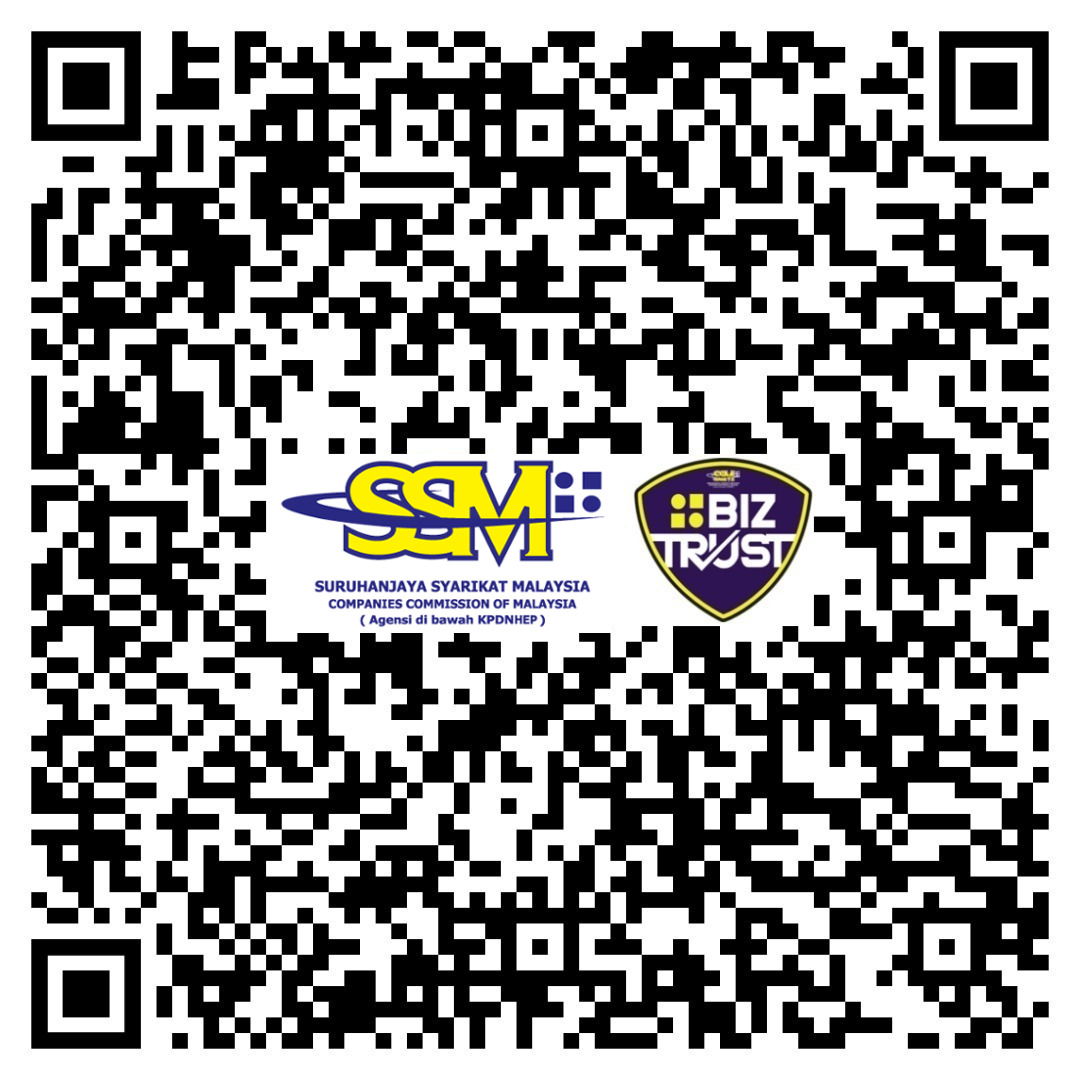
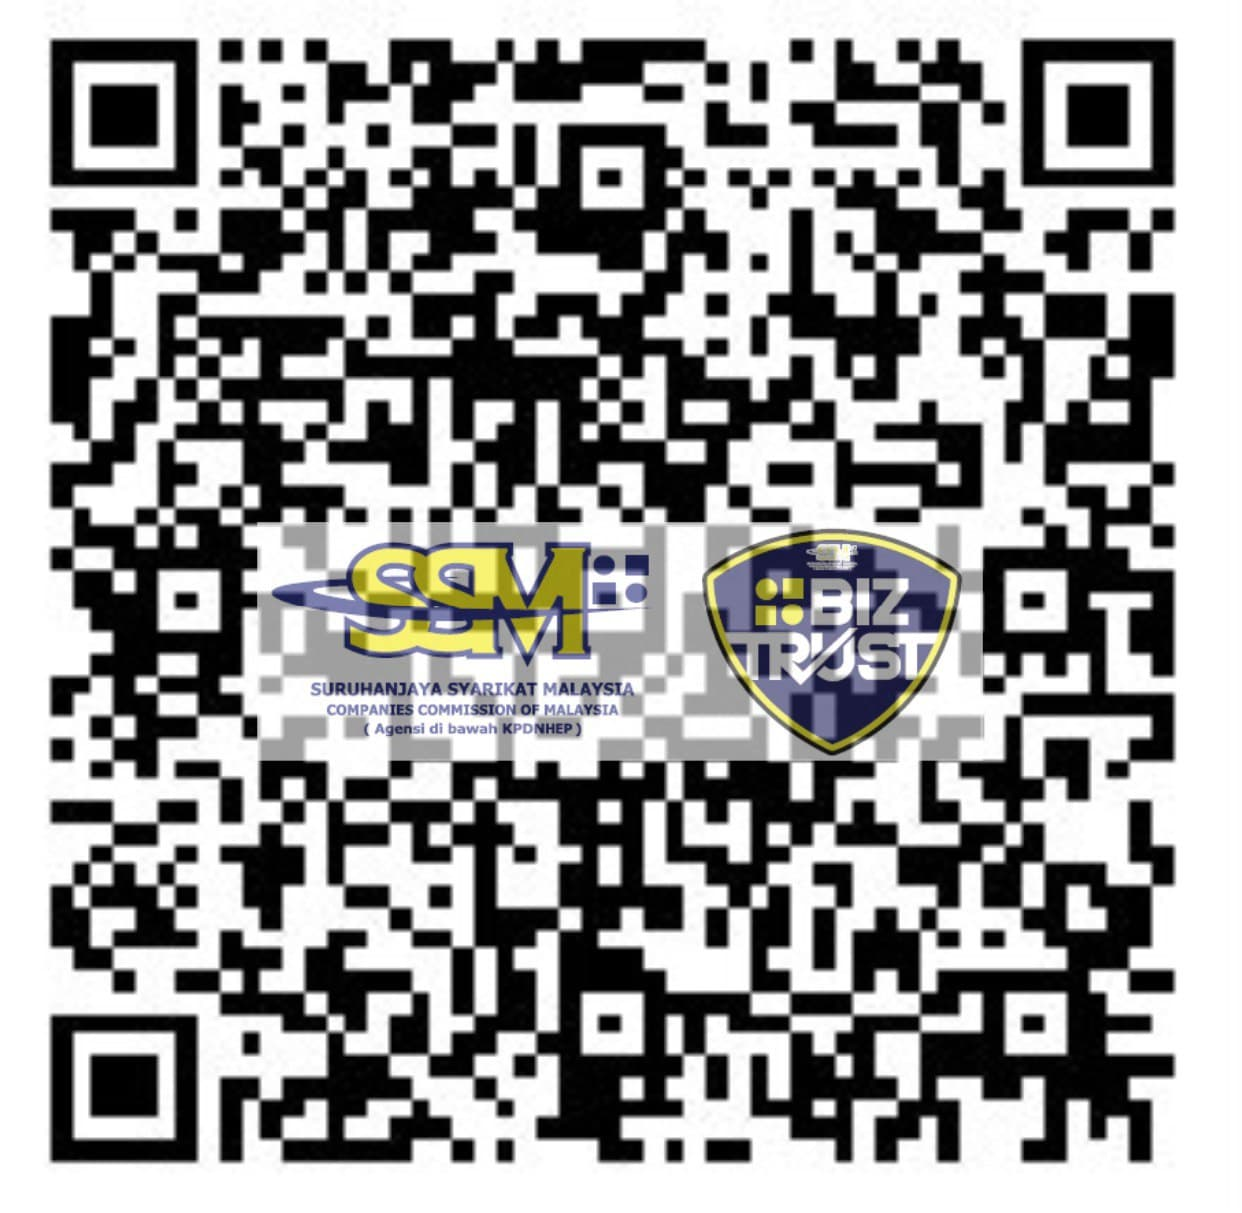
update qr code image

diff --git a/www/templates/biztrust_scan.html b/www/templates/biztrust_scan.html
@@ -43,7 +43,7 @@
     <center>
 
       <div style="margin-top: 10px; margin-bottom:20px">
-        <img style='height: 70%; width: 70%; object-fit: contain;' ng-src="img/qrcodessm2.jpg"/>
+        <img style='height: 80%; width: 80%; object-fit: contain;' ng-src="img/qrcodessm.jpg"/>
       </div>
 
       <div>
